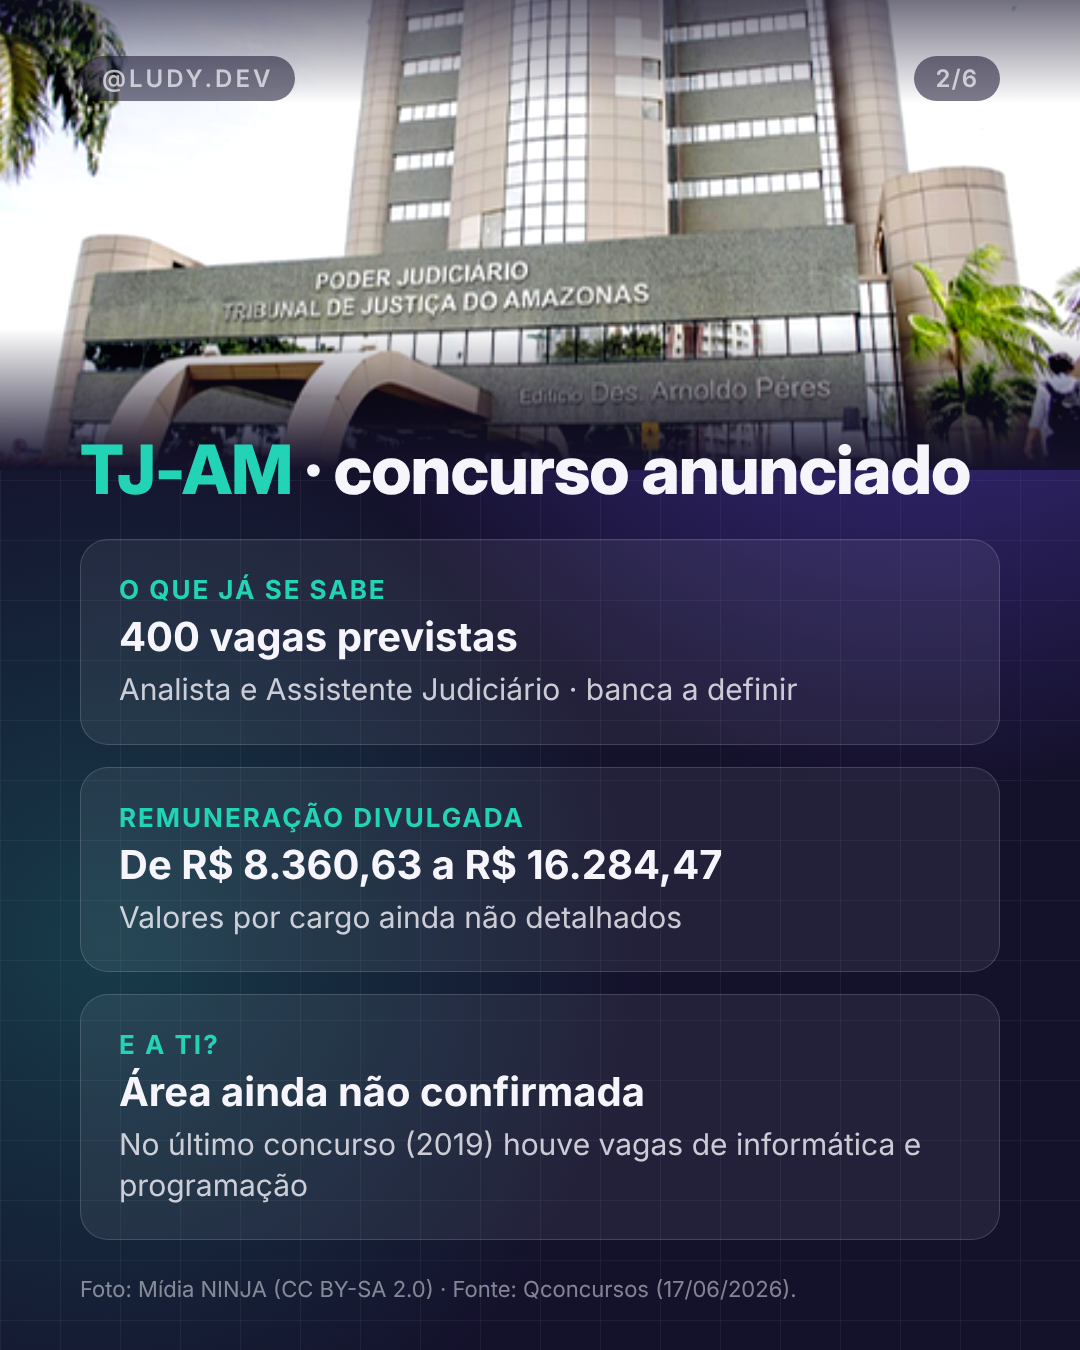
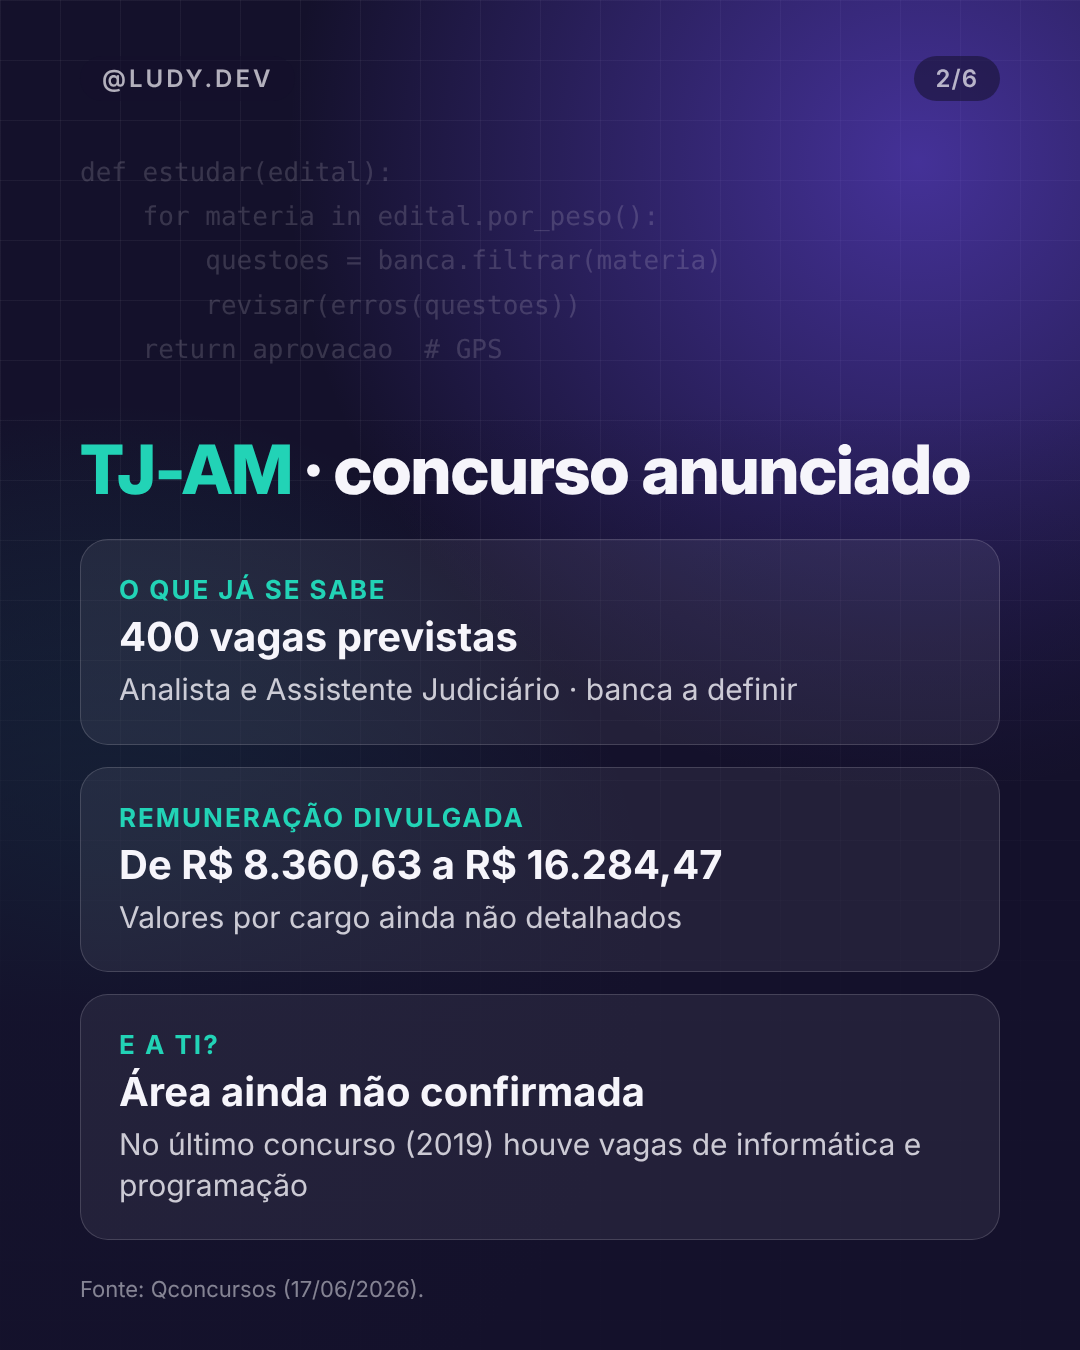
Remove foto do prédio do slide do TJ-AM
Claude-Session: https://claude.ai/code/session_01PAmMNyTervBqrWDZUP7Uz7

diff --git a/_ferramentas/posts.py b/_ferramentas/posts.py
@@ -6,7 +6,7 @@ OUT = "/home/claude/posts/2026-10-18"
 T1 = 6
 p1 = [
  page_a(badge() + '<h1>3 concursos no <span class="v">Amazonas</span> pra quem é de <span class="c">TI</span> ficar de olho</h1><div class="sub">Nenhum tem edital ainda. É por isso que você precisa ver isso agora →</div>', 1, T1, photo="fotos/coding-noite-unsplash.jpg"),
- page_a('<h2><span class="c">TJ-AM</span> · concurso anunciado</h2><div class="card"><div class="k">O que já se sabe</div><div class="t">400 vagas previstas</div><div class="d">Analista e Assistente Judiciário · banca a definir</div></div><div class="card"><div class="k">Remuneração divulgada</div><div class="t">De R$ 8.360,63 a R$ 16.284,47</div><div class="d">Valores por cargo ainda não detalhados</div></div><div class="card"><div class="k">E a TI?</div><div class="t">Área ainda não confirmada</div><div class="d">No último concurso (2019) houve vagas de informática e programação</div></div>', 2, T1, src="Foto: Mídia NINJA (CC BY-SA 2.0) · Fonte: Qconcursos (17/06/2026).", top_photo="fotos/tjam-sede-midianinja-ccbysa-vivo.png"),
+ page_a('<h2><span class="c">TJ-AM</span> · concurso anunciado</h2><div class="card"><div class="k">O que já se sabe</div><div class="t">400 vagas previstas</div><div class="d">Analista e Assistente Judiciário · banca a definir</div></div><div class="card"><div class="k">Remuneração divulgada</div><div class="t">De R$ 8.360,63 a R$ 16.284,47</div><div class="d">Valores por cargo ainda não detalhados</div></div><div class="card"><div class="k">E a TI?</div><div class="t">Área ainda não confirmada</div><div class="d">No último concurso (2019) houve vagas de informática e programação</div></div>', 2, T1, src="Fonte: Qconcursos (17/06/2026)."),
  page_a('<h2><span class="c">TCE-AM</span> · concurso autorizado</h2><div class="card"><div class="k">Cargo</div><div class="t">Auditor de Controle Externo – TI</div><div class="d">Vagas ainda a definir</div></div><div class="card"><div class="k">Remuneração</div><div class="t">Inicial: R$ 11.534,07</div><div class="d">Final de carreira: ainda não divulgado</div></div>', 3, T1),
  page_a('<h2><span class="c">CGE-AM</span> · comissão formada</h2><div class="card"><div class="k">Cargo</div><div class="t">Auditor de Controle Interno</div><div class="d">Até 50 vagas, sendo 5 para TI</div></div><div class="card"><div class="k">Remuneração</div><div class="t">Inicial: R$ 13.700,00</div><div class="d">Final de carreira: R$ 27.500,00 · banca ainda não definida</div></div>', 4, T1, src="Fontes: JC Concursos (18/09/2026) e Folha Dirigida (03/12/2025)."),
  page_a('<h2>Sem edital = <span class="v">vantagem</span> pra quem começa agora</h2><p>Quando o edital sai, o prazo até a prova costuma ser curto. Quem já tem a base de TI, português e legislação <b>só ajusta a rota</b>.</p>', 5, T1),
